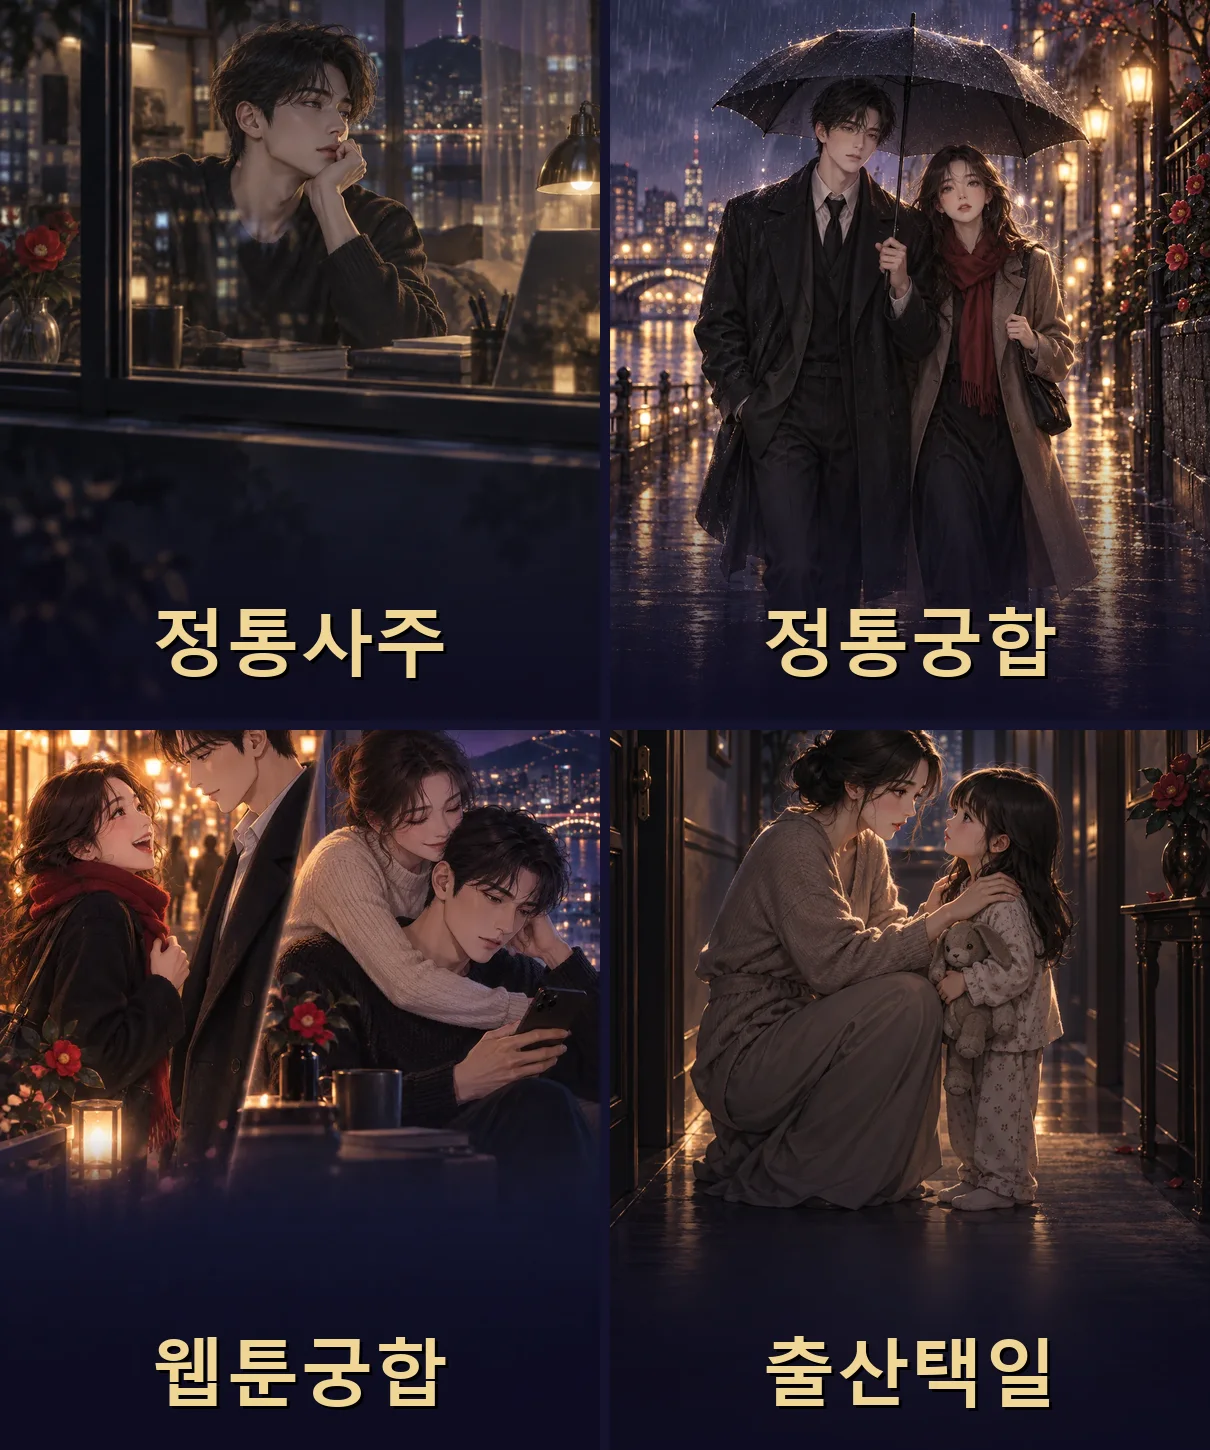
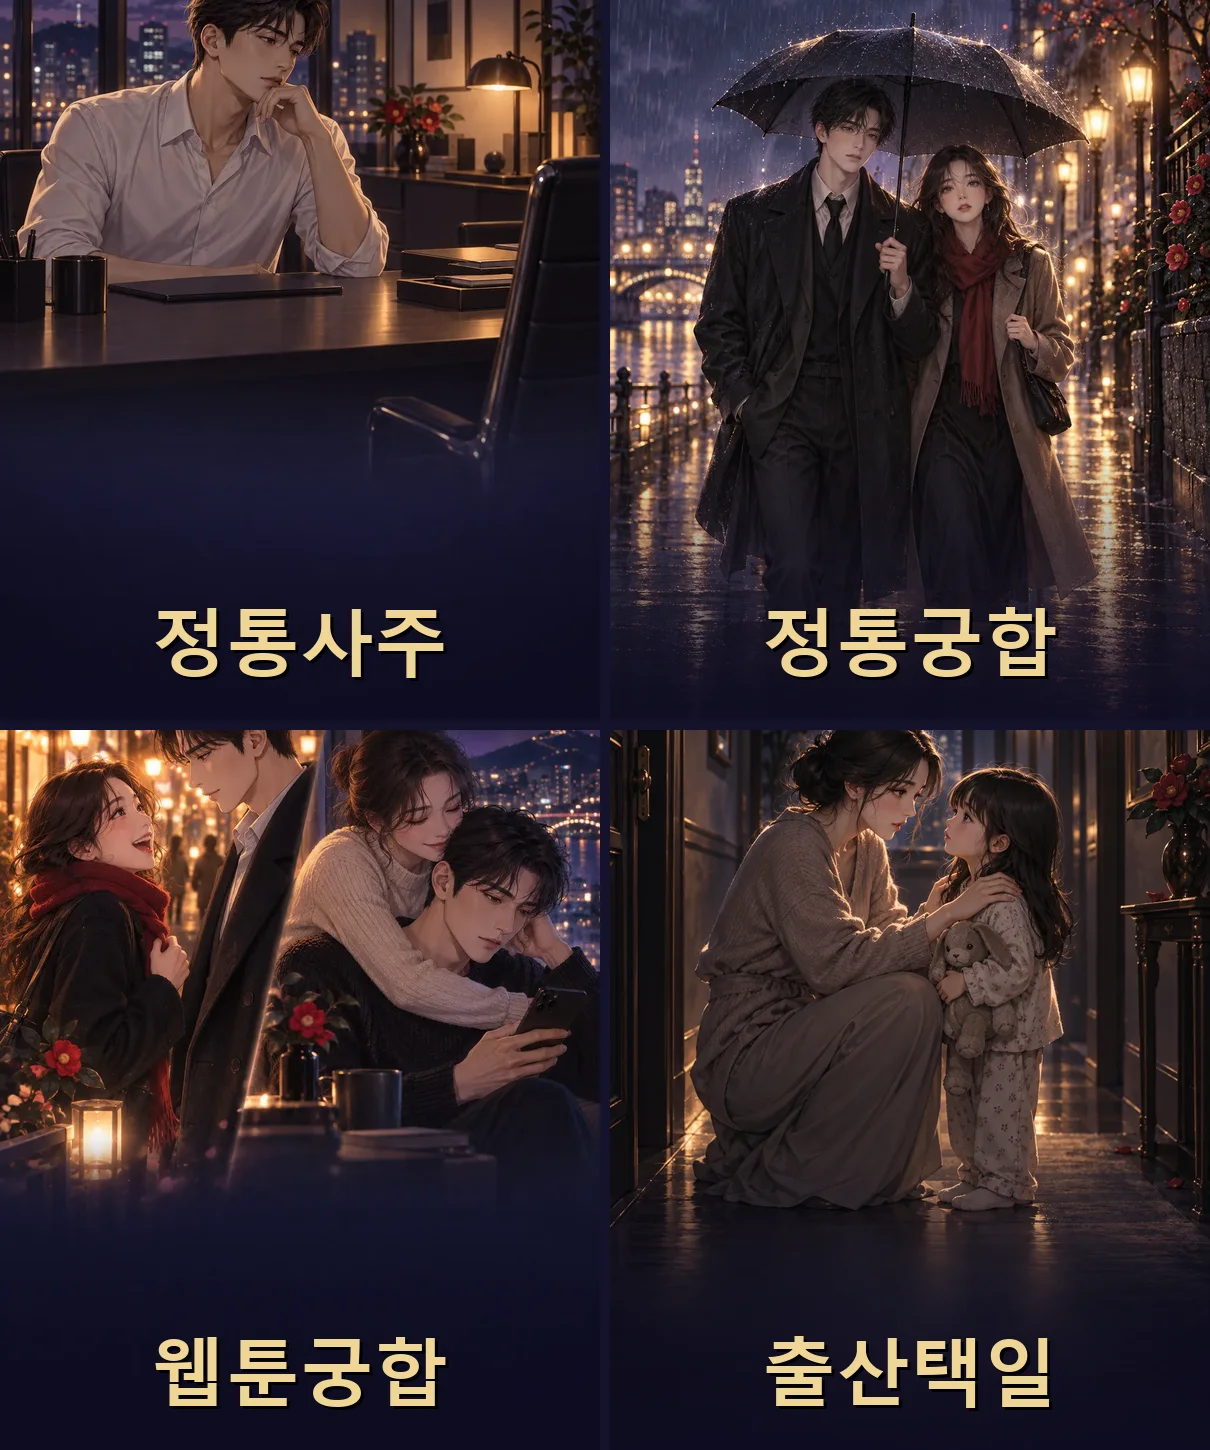
정통사주 웹툰 — 완성기 docs/85 · 홈 컷씬 정통사주 칸 새 그림 · 조립기 대운잼(건록 · 양인) · 스킬 고쳐 씀
정한 것: 홈 컷 = jt-03-seat-m · 스킬 2절 7 · 8 항목

Changed region(s): [[0.0, 0.0, 0.5198, 0.3724]]

diff --git a/app/index.html b/app/index.html
@@ -29,7 +29,7 @@
 <link rel="preconnect" href="https://fonts.googleapis.com">
 <link rel="preconnect" href="https://fonts.gstatic.com" crossorigin>
 <link href="https://fonts.googleapis.com/css2?family=Noto+Serif+KR:wght@400;600;700;900&family=Noto+Sans+KR:wght@400;500;700&family=Gowun+Batang:wght@400;700&display=swap" rel="stylesheet">
-<link rel="stylesheet" href="style.css?v=1163">
+<link rel="stylesheet" href="style.css?v=1164">
 <script type="application/ld+json">
 {"@context":"https://schema.org","@graph":[
  {"@type":"WebSite","@id":"https://chaeksa.kr/#website","url":"https://chaeksa.kr/",
@@ -69,7 +69,7 @@
   <section id="landing" class="hide">
     <div class="lp-hero lp-min" id="lpHero">
       <div class="lp-scene">
-        <img src="landing-cuts.webp?v=1163" alt="정통사주 · 정통궁합 · 웹툰궁합 · 출산택일" width="1210" height="1450">
+        <img src="landing-cuts.webp?v=1164" alt="정통사주 · 정통궁합 · 웹툰궁합 · 출산택일" width="1210" height="1450">
         <a href="#" data-go="jeongtong" aria-label="정통사주"></a><a href="#" data-go="chongnon" aria-label="정통궁합"></a><a href="#" data-go="ssom" aria-label="웹툰궁합"></a><a href="taekil-sim.html?from=site-landing" aria-label="출산택일"></a>
       </div>
       <button class="btn lp-cta" id="btnGunghap" type="button">로그인 없이 생년월일로 궁합 시작하기</button>
@@ -130,7 +130,7 @@
            docs/29 「서고에서 비서로」와 반대 방향이다. 사장님이 전략을 바꾸셨다. -->
       <!-- 09-25 사장님 「뼈대 교통정리 · 전부 ㄱㄱ」(docs/78) — 홈 = 컷 넷 + 내 원국(smMain)만. 이야기 목록(wtTop · wtHome) · 어떤 사이(wgMain) · 오늘의 질문(qToday)은 style.css 에서 감춤(코드는 남김). -->
       <div class="lp-scene home-scene">
-        <img src="landing-cuts.webp?v=1163" alt="정통사주 · 정통궁합 · 웹툰궁합 · 출산택일" width="1210" height="1450">
+        <img src="landing-cuts.webp?v=1164" alt="정통사주 · 정통궁합 · 웹툰궁합 · 출산택일" width="1210" height="1450">
         <a href="#" data-go="jeongtong" aria-label="정통사주"></a><a href="#" data-go="chongnon" aria-label="정통궁합"></a><a href="#" data-go="ssom" aria-label="웹툰궁합"></a><a href="taekil.html" aria-label="출산택일"></a>
       </div>
       <div id="wtTop" class="wt hide"></div>
@@ -475,45 +475,45 @@
   </div>
 </div>
 
-<script src="config.js?v=1163"></script>
-<script src="track.js?v=1163"></script>
-<script src="cloud.js?v=1163"></script>
-<script src="usage.js?v=1163"></script>
-<script src="places.js?v=1163"></script>
-<script src="people.js?v=1163"></script>
-<script src="astro.js?v=1163"></script>
-<script src="lunar.js?v=1163"></script>
-<script src="engine.js?v=1163"></script>
-<script src="saenggeuk.js?v=1163"></script><script src="gise.js?v=1163"></script>
-<script src="panjeong.js?v=1163"></script>
-<script src="questions.js?v=1163"></script>
-<script src="wongook.js?v=1163"></script>
-<script src="seolmyeongseo.js?v=1163"></script>
-<script src="chaeyong.js?v=1163"></script>
-<script src="brief.js?v=1163"></script>
-<script src="chaeksadan.js?v=1163"></script>
-<script src="geunamja.js?v=1163"></script>
-<script src="maeum.js?v=1163"></script>
-<script src="gunghap.js?v=1163"></script>
-<script src="sheets.js?v=1163"></script>
-<script src="hwakin.js?v=1163"></script>
-<script src="mun.js?v=1163"></script>
-<script src="mun/all.js?v=1163"></script>
-<script src="typecard.js?v=1163"></script>
-<script src="gyeokguk.js?v=1163"></script>
-<script src="memo.js?v=1163"></script>
-<script src="classic.js?v=1163"></script>
-<script src="gungtong-wonmun.js?v=1163"></script><script src="ilju.js?v=1163"></script><script src="yeongyeok.js?v=1163"></script><script src="samyeong.js?v=1163"></script><script src="gwanjeom.js?v=1163"></script><script src="jeongtong.js?v=1163"></script>
-<script src="gunghap-gwanjeom.js?v=1163"></script><script src="ssom-gwanjeom.js?v=1163"></script><script src="ssom-baram.js?v=1163"></script><script src="ssom-dangye.js?v=1163"></script><script src="ssom-daehwa.js?v=1163"></script><script src="ssom-webtoon.js?v=1163"></script><script src="ssom-webtoon-2.js?v=1163"></script><script src="ssom-webtoon-3.js?v=1163"></script><script src="ssom-wongo.js?v=1163"></script><script src="jt-webtoon.js?v=1163"></script><script src="jt-webtoon-2.js?v=1163"></script><script src="ssom-score.js?v=1163"></script><script src="ssom-score-mal.js?v=1163"></script><script src="ssom.js?v=1163"></script><script src="gunghap-chongnon.js?v=1163"></script>
-<script src="taekilsim.js?v=1163"></script>
-<script src="stories.js?v=1163"></script>
-<script src="tongbyeon.js?v=1163"></script>
-<script src="rules-wealth-love.js?v=1163"></script>
-<script src="rules-health-study-move.js?v=1163"></script>
-<script src="share.js?v=1163"></script>
-<script src="ai.js?v=1163"></script>
-<script src="pay.js?v=1163"></script>
-<script src="app.js?v=1163"></script>
-<script src="landing.js?v=1163"></script>
+<script src="config.js?v=1164"></script>
+<script src="track.js?v=1164"></script>
+<script src="cloud.js?v=1164"></script>
+<script src="usage.js?v=1164"></script>
+<script src="places.js?v=1164"></script>
+<script src="people.js?v=1164"></script>
+<script src="astro.js?v=1164"></script>
+<script src="lunar.js?v=1164"></script>
+<script src="engine.js?v=1164"></script>
+<script src="saenggeuk.js?v=1164"></script><script src="gise.js?v=1164"></script>
+<script src="panjeong.js?v=1164"></script>
+<script src="questions.js?v=1164"></script>
+<script src="wongook.js?v=1164"></script>
+<script src="seolmyeongseo.js?v=1164"></script>
+<script src="chaeyong.js?v=1164"></script>
+<script src="brief.js?v=1164"></script>
+<script src="chaeksadan.js?v=1164"></script>
+<script src="geunamja.js?v=1164"></script>
+<script src="maeum.js?v=1164"></script>
+<script src="gunghap.js?v=1164"></script>
+<script src="sheets.js?v=1164"></script>
+<script src="hwakin.js?v=1164"></script>
+<script src="mun.js?v=1164"></script>
+<script src="mun/all.js?v=1164"></script>
+<script src="typecard.js?v=1164"></script>
+<script src="gyeokguk.js?v=1164"></script>
+<script src="memo.js?v=1164"></script>
+<script src="classic.js?v=1164"></script>
+<script src="gungtong-wonmun.js?v=1164"></script><script src="ilju.js?v=1164"></script><script src="yeongyeok.js?v=1164"></script><script src="samyeong.js?v=1164"></script><script src="gwanjeom.js?v=1164"></script><script src="jeongtong.js?v=1164"></script>
+<script src="gunghap-gwanjeom.js?v=1164"></script><script src="ssom-gwanjeom.js?v=1164"></script><script src="ssom-baram.js?v=1164"></script><script src="ssom-dangye.js?v=1164"></script><script src="ssom-daehwa.js?v=1164"></script><script src="ssom-webtoon.js?v=1164"></script><script src="ssom-webtoon-2.js?v=1164"></script><script src="ssom-webtoon-3.js?v=1164"></script><script src="ssom-wongo.js?v=1164"></script><script src="jt-webtoon.js?v=1164"></script><script src="jt-webtoon-2.js?v=1164"></script><script src="ssom-score.js?v=1164"></script><script src="ssom-score-mal.js?v=1164"></script><script src="ssom.js?v=1164"></script><script src="gunghap-chongnon.js?v=1164"></script>
+<script src="taekilsim.js?v=1164"></script>
+<script src="stories.js?v=1164"></script>
+<script src="tongbyeon.js?v=1164"></script>
+<script src="rules-wealth-love.js?v=1164"></script>
+<script src="rules-health-study-move.js?v=1164"></script>
+<script src="share.js?v=1164"></script>
+<script src="ai.js?v=1164"></script>
+<script src="pay.js?v=1164"></script>
+<script src="app.js?v=1164"></script>
+<script src="landing.js?v=1164"></script>
 </body>
 </html>

diff --git a/app/jt-webtoon.js b/app/jt-webtoon.js
@@ -17,7 +17,9 @@
   function 사람(R, today) {
     const P = global.ChaeksaPanjeong, T = global.ChaeksaTypecard, S = global.ChaeksaSamyeong;
     const p = R.pillars, ds = p.day.stem, 판 = P.판정(R, today || new Date());
-    const 층들 = 판.층들 || [], 원 = 층들[0] || {}, 원격 = (원.격 && 원.격.성패) || T.gyeok(R);
+    const 층들 = 판.층들 || [], 원 = 층들[0] || {};
+    // 건록 · 양인은 판정엔진이 격 층을 안 내고 층.성패(typecard)만 낸다 — 그걸 쓰고, 대운마다의 격 · 성패는 못 재니 표시한다(docs/83 5절)
+    const 원격 = (원.격 && 원.격.성패) || 원.성패 || T.gyeok(R), 대운잼 = !!(원.격 && 원.격.지금격);
     const 격 = 격정리(원격.격 || 원격.name), 성패 = 성패키[원격.판정] || '성격';
     const 잰 = Object.assign({}, 원격.잰것 || {});
     { const 격무리 = ({ 비견: '비겁', 겁재: '비겁', 식신: '식상', 상관: '식상', 편재: '재성', 정재: '재성', 편관: '관성', 정관: '관성', 편인: '인성', 정인: '인성' })[격]; if (격무리 && !(잰[격무리] || 0)) 잰[격무리] = 0.01; }   // 격 자체(월지)는 있는 힘(검수 2바퀴)
@@ -48,7 +50,7 @@
     return {
       R, 일간: E.STEMS[ds], 일간오행: 오행ko[E.STEM_ELEM[ds]], 일간크기: E.STEM_YANG[ds] ? '큰' : '작은', 계절: 계절of(p.month.branch), 월지: E.BRANCHES[p.month.branch],
       찾는글자: 조후 ? 조후.need : '', 찾는글자있음: !!(조후 && 조후.hasMain), 돕는글자있음: !!(조후 && 조후.hasAux),
-      격, 성패, 상신: 상신원, 상신말: 상신말(상신원), 있는힘, 없는힘, 기신, 기신말: 기신 ? (십신말[기신] || 무리말[기신] || 상신말(기신)) : '', 구응: !!구응, 펴짐: 펴짐,
+      격, 성패, 대운잼, 상신: 상신원, 상신말: 상신말(상신원), 있는힘, 없는힘, 기신, 기신말: 기신 ? (십신말[기신] || 무리말[기신] || 상신말(기신)) : '', 구응: !!구응, 펴짐: 펴짐,
       대운, 지금대운, 다음대운: 대운[지금i + 1] || null, 바뀜, 돌아옴, 올해,
       일지운성: 일지운성.단계 || '', 일지운성뜻: 일지운성.뜻 || '', 신살, 귀인,
       재성종류, 재성자리, 비겁있음, 관성있음, 바람, 언행키,
@@ -108,6 +110,7 @@
       case '다음시작': return 사.다음대운 ? 사.다음대운.시작 : ''; case '올해': return 사.올해;
       case '격': return 사.격; case '성패': return 사.성패;
       case '비겁있음': return 사.비겁있음 ? '있음' : ''; case '관성있음': return 사.관성있음 ? '있음' : ''; case '재성있음': return 사.재성자리.length ? '있음' : '';
+      case '대운잼': return 사.대운잼 ? '잼' : '';   // 건록 · 양인은 빈 값 → {?대운잼:…|열 해마다 어떻게 바뀌나는 아직 못 재요}
       case '펴지는해': return 사.펴짐 ? 사.펴짐.시작 : ''; case '같은격': return 사.지금대운 && 사.지금대운.격 === 사.격 ? '같음' : (사.지금대운 ? '' : '같음');
       case '찾는글자': return 사.찾는글자; case '지금간지': return 사.지금대운 ? 사.지금대운.간지 : '';
       case '운성말': return ((global.ChaeksaJtJogak || {}).운성말 || {})[사.일지운성] || '';

diff --git a/app/ssom-vn.html b/app/ssom-vn.html
@@ -62,9 +62,9 @@
   <div class="chap" id="chap"></div>
   <div class="toc" id="tocPanel"><div class="toc-h"><b>목차</b><button class="toc-x" id="tocX" type="button">✕</button></div><div class="toc-body" id="tocBody"></div></div>
 </div>
-<script src="config.js?v=1163"></script><script src="astro.js?v=1163"></script><script src="lunar.js?v=1163"></script><script src="engine.js?v=1163"></script>
-<script src="saenggeuk.js?v=1163"></script><script src="gise.js?v=1163"></script><script src="panjeong.js?v=1163"></script><script src="typecard.js?v=1163"></script><script src="gyeokguk.js?v=1163"></script>
-<script src="classic.js?v=1163"></script><script src="samyeong.js?v=1163"></script><script src="jt-webtoon.js?v=1163"></script><script src="jt-webtoon-2.js?v=1163"></script><script src="ssom-gwanjeom.js?v=1163"></script><script src="ssom-baram.js?v=1163"></script><script src="ssom-daehwa.js?v=1163"></script><script src="ssom-webtoon.js?v=1163"></script><script src="ssom-webtoon-2.js?v=1163"></script><script src="ssom-webtoon-3.js?v=1163"></script><script src="ssom-wongo.js?v=1163"></script><script src="ssom-dangye.js?v=1163"></script><script src="ssom.js?v=1163"></script>
+<script src="config.js?v=1164"></script><script src="astro.js?v=1164"></script><script src="lunar.js?v=1164"></script><script src="engine.js?v=1164"></script>
+<script src="saenggeuk.js?v=1164"></script><script src="gise.js?v=1164"></script><script src="panjeong.js?v=1164"></script><script src="typecard.js?v=1164"></script><script src="gyeokguk.js?v=1164"></script>
+<script src="classic.js?v=1164"></script><script src="samyeong.js?v=1164"></script><script src="jt-webtoon.js?v=1164"></script><script src="jt-webtoon-2.js?v=1164"></script><script src="ssom-gwanjeom.js?v=1164"></script><script src="ssom-baram.js?v=1164"></script><script src="ssom-daehwa.js?v=1164"></script><script src="ssom-webtoon.js?v=1164"></script><script src="ssom-webtoon-2.js?v=1164"></script><script src="ssom-webtoon-3.js?v=1164"></script><script src="ssom-wongo.js?v=1164"></script><script src="ssom-dangye.js?v=1164"></script><script src="ssom.js?v=1164"></script>
 <script>
 // 연애궁합 장면 보기(09-25) — 글 보기와 같은 대본(ssom.js 대본)을 처음부터 끝까지 한 줄씩. 글을 새로 쓰지 않는다.
 // 두 사람 · 만난 달 · 단계는 글 보기에서 이 탭(sessionStorage)으로만 넘겨받는다 — 주소에 싣지 않는다. 없으면 사장님 쌍 견본으로 연다.

diff --git a/app/jt-wongo-view.html b/app/jt-wongo-view.html
@@ -16,7 +16,7 @@ p{margin:6px 0;line-height:1.7;font-size:15px}.s{font-style:italic;color:#555}
 <h1 id="ttl">정통사주 웹툰 원고</h1>
 <p class="sub">뼈대 v2(docs/81_v2) 20회 — 한 회 = 컷 셋 · 한 컷 한 줄, 「왜 그럴까」는 접힘 — 를 사장님 명식 한 벌로 쓴 시제품입니다. 사장님 검수용(09-26 「내가 검수부터」). 이름표: 나 = 파랑 · 책사 = 보라 · 단서 = 상자.</p>
 <div class="toc" id="toc"></div><div id="out"></div></div>
-<script src="config.js?v=1163"></script><script src="places.js?v=1163"></script><script src="astro.js?v=1163"></script><script src="lunar.js?v=1163"></script><script src="engine.js?v=1163"></script><script src="saenggeuk.js?v=1163"></script><script src="gise.js?v=1163"></script><script src="panjeong.js?v=1163"></script><script src="typecard.js?v=1163"></script><script src="gyeokguk.js?v=1163"></script><script src="classic.js?v=1163"></script><script src="samyeong.js?v=1163"></script><script src="ssom-gwanjeom.js?v=1163"></script><script src="jt-webtoon.js?v=1163"></script><script src="jt-webtoon-2.js?v=1163"></script><script src="jt-webtoon-proto.js?v=1163"></script>
+<script src="config.js?v=1164"></script><script src="places.js?v=1164"></script><script src="astro.js?v=1164"></script><script src="lunar.js?v=1164"></script><script src="engine.js?v=1164"></script><script src="saenggeuk.js?v=1164"></script><script src="gise.js?v=1164"></script><script src="panjeong.js?v=1164"></script><script src="typecard.js?v=1164"></script><script src="gyeokguk.js?v=1164"></script><script src="classic.js?v=1164"></script><script src="samyeong.js?v=1164"></script><script src="ssom-gwanjeom.js?v=1164"></script><script src="jt-webtoon.js?v=1164"></script><script src="jt-webtoon-2.js?v=1164"></script><script src="jt-webtoon-proto.js?v=1164"></script>
 <script>
 (function () {
   const q = new URLSearchParams(location.search), out = document.getElementById('out'), toc = document.getElementById('toc');

diff --git a/app/tests_jt.html b/app/tests_jt.html
@@ -2,8 +2,8 @@
 <html lang="ko"><head><meta charset="utf-8"><meta name="robots" content="noindex"><title>정통사주 웹툰 시험</title>
 <style>body{font-family:sans-serif;max-width:900px;margin:20px auto;padding:0 16px}h2{font-size:15px;margin:10px 0 4px}.ok{color:#2a7}.no{color:#c33}pre{background:#f4f4f4;padding:8px;font-size:12px;white-space:pre-wrap}</style></head>
 <body><div id="out"></div>
-<script src="config.js?v=1163"></script><script src="places.js?v=1163"></script><script src="astro.js?v=1163"></script><script src="lunar.js?v=1163"></script><script src="engine.js?v=1163"></script>
-<script src="saenggeuk.js?v=1163"></script><script src="gise.js?v=1163"></script><script src="panjeong.js?v=1163"></script><script src="typecard.js?v=1163"></script><script src="gyeokguk.js?v=1163"></script><script src="classic.js?v=1163"></script><script src="samyeong.js?v=1163"></script><script src="ssom-gwanjeom.js?v=1163"></script><script src="jt-webtoon.js?v=1163"></script><script src="jt-webtoon-2.js?v=1163"></script>
+<script src="config.js?v=1164"></script><script src="places.js?v=1164"></script><script src="astro.js?v=1164"></script><script src="lunar.js?v=1164"></script><script src="engine.js?v=1164"></script>
+<script src="saenggeuk.js?v=1164"></script><script src="gise.js?v=1164"></script><script src="panjeong.js?v=1164"></script><script src="typecard.js?v=1164"></script><script src="gyeokguk.js?v=1164"></script><script src="classic.js?v=1164"></script><script src="samyeong.js?v=1164"></script><script src="ssom-gwanjeom.js?v=1164"></script><script src="jt-webtoon.js?v=1164"></script><script src="jt-webtoon-2.js?v=1164"></script>
 <script>
 // 정통사주 웹툰 시험(09-26, 5단계) — 뼈대 동결 지문 · 빈칸 0 · 원고 검사기 · 명리 사실(사장님 명식).
 const E = ChaeksaEngine, J = ChaeksaJtWebtoon, out = document.getElementById('out');

diff --git a/docs/85_정통사주_웹툰_완성기.md b/docs/85_정통사주_웹툰_완성기.md
@@ -1,0 +1,28 @@
+# 정통사주 개인화 웹툰 — 완성기 (2026-09-26)
+
+> 내 생년월일을 넣으면 **나 한 사람의 웹툰** 20회가 나온다. 격 10 · 성패 4, 남녀 두 벌 삽화 60장, 어떤 명식이 와도 빈칸 없이.
+> 하루 안에(09-26) 승격안 → 뼈대 → 갈림 → 원고(검수 두 바퀴) → 삽화 → 연결 → 라이브.
+
+## 1. 무엇을 만들었나
+- 정체: 정통사주 13장(표 + 풀이)을 **웹툰**으로. 13장은 「근거 보기」로 물렸다. 정통사주 탭 「정통사주 시작하기」 → 장면 보기.
+- 뼈대(docs/81_v2): 여덟 묶음 20회, 소재 = 나에 대한 물음(회 = 물음 하나). 한 회 = 컷 셋(물음 · 장면+한마디 · 답 한 줄) + 접힘(해설 · 단서).
+- 갈림(docs/82): 격 10(언행, 3 · 4 · 11 · 15 · 20회) · 성패 4(상태, 6 · 20회) — 곱하지 않음. 나머지 회는 공통 장면 + 엔진 값 답 틀. 조각 58칸 + 공통 14 + 단서 20 + 표 셋.
+- 삽화(docs/84): 회 컷 20 × 남녀 + 격 컷 10 × 남녀 = 60. 사장님 생성. 성패는 그림 없음.
+- 조립기 `app/jt-webtoon.js`(사람 · 뼈대 · 조립 · {변수} · 갈래 · 조사) · 조각 `jt-webtoon-2.js`(작가) · 시험 `tests_jt.html` 8/8.
+
+## 2. 사장님이 튼 것(순서대로)
+1. 「전략과 순서는 저장되어 있지?」 → 스킬 개인화콘텐츠 그대로.
+2. 소재는 연애궁합의 장소가 아니라 **나에 대한 물음**. 달력 켬. 순서 다섯(뼈대 → 갈림 → 원고 → 삽화 → 연결) + 보고 양식 넷.
+3. 「성패 4는 무엇」 → 「길흉 판단이라 격마다 언행이 달라지는 건 아니라서 **성패 4벌**」 — 격 × 성패 40을 버림.
+4. 시제품 v1(25회) 「읽기 힘든 게 여전함」 → **컷 셋 · 한 컷 한 줄 · 20회** v2.
+5. 삽화는 **남자는 남자 독백, 여자는 여자 독백** 두 벌.
+6. 출산택일 쪽은 「아이에 대한 기대를 충족시키는 콘텐츠」로 따로.
+
+## 3. 검수가 잡은 것(지적장부 26~36)
+1바퀴 22곳: 값이 비면 답이 끊김(빈 라벨) · 양쪽 다 적음 · 판정키가 답에 · 조사. → 조립기 갈래 문법 · 참/거짓 빈 값. 2바퀴 7곳: 격표 상신이 원국에 없음 · 「잠깐 접힌」 뒤 60년 · 「없어」 문장에서 기신 뽑음 · 격 무리가 없는 힘에 · 겁재를 재성으로. → 모두 조립기.
+**콘텐츠 지표**: 사장님 방향 튼 횟수 6 · 검수 바퀴 2 · 기계로 먼저 잡았어야 할 비율 — 1바퀴 22 중 7(32%) · 2바퀴 7 중 5(71%). 검수가 잡은 것의 대부분이 엔진 값 문제였다 → 다음 콘텐츠는 **조립기 값 시험을 작가 전에**.
+
+## 4. 남은 것
+- 건록 · 양인 원국은 판정엔진이 대운마다 격 · 성패를 안 내서 열 해 변화를 못 잰다(docs/83 5절). `{대운잼}`으로 「못 재요」 갈래. 판정엔진 쪽 일.
+- 답 20자 넘는 곳 다듬기(작가).
+- 홈 컷씬 정통사주 칸은 새 그림(jt-03-seat-m)으로 바꿈.
